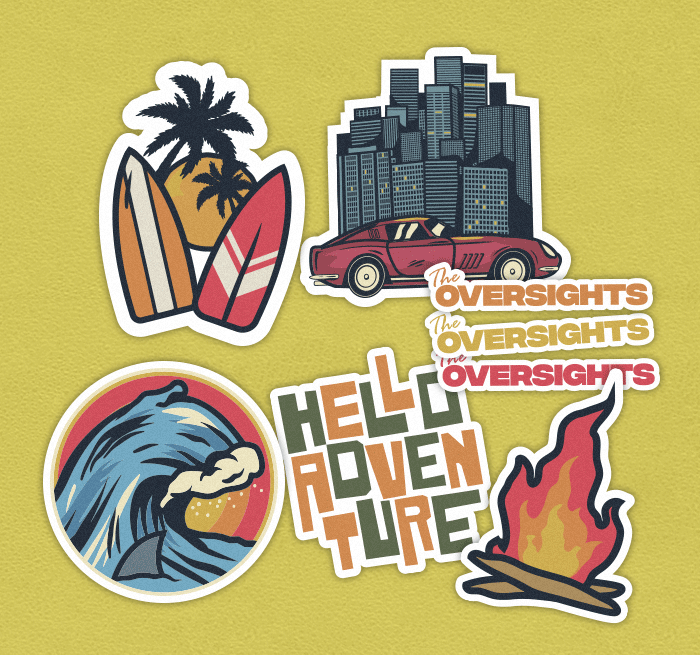
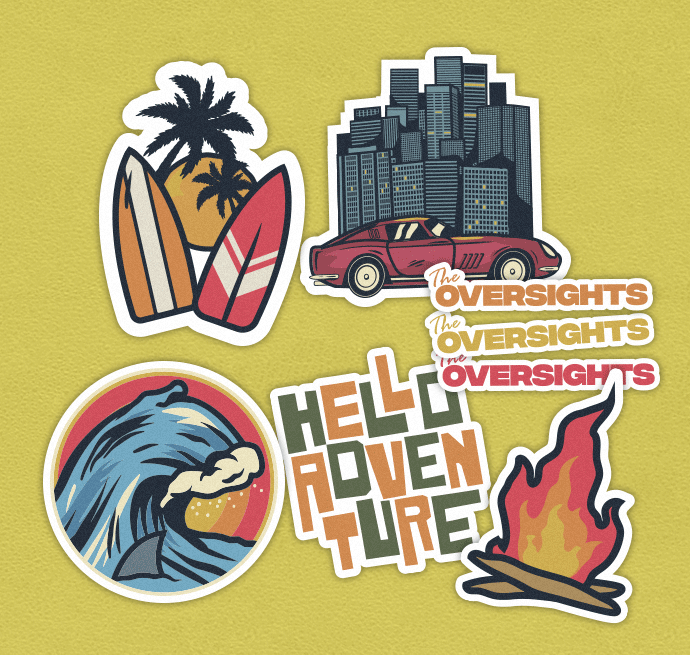
Resize images to fit cards uniformly

Changed region(s): [[0.0609, 0.0611, 0.9739, 0.9771]]

diff --git a/README.md b/README.md
@@ -188,6 +188,13 @@ Let's hope very few!
     
     I adjusted this further to remove some unneccesary blank space from the widget.
 
+3. Couldn't find a property to change the image sizes within Bootstraps card system. Led to uneven sizing across cards which looks untidy and distracting.
+        ![Before](docs/screenshots/merch_before.png)
+        
+Decided to simply resize the images to all have the same proportions within Photoshop and then replace the ones in use. A simple solution that achieved the results I wanted without any code changes.
+        ![After](docs/screenshots/merch_after.png)
+
+
 ## Future Enhancements
 
 Further store functionality to remove third party website dependency?
